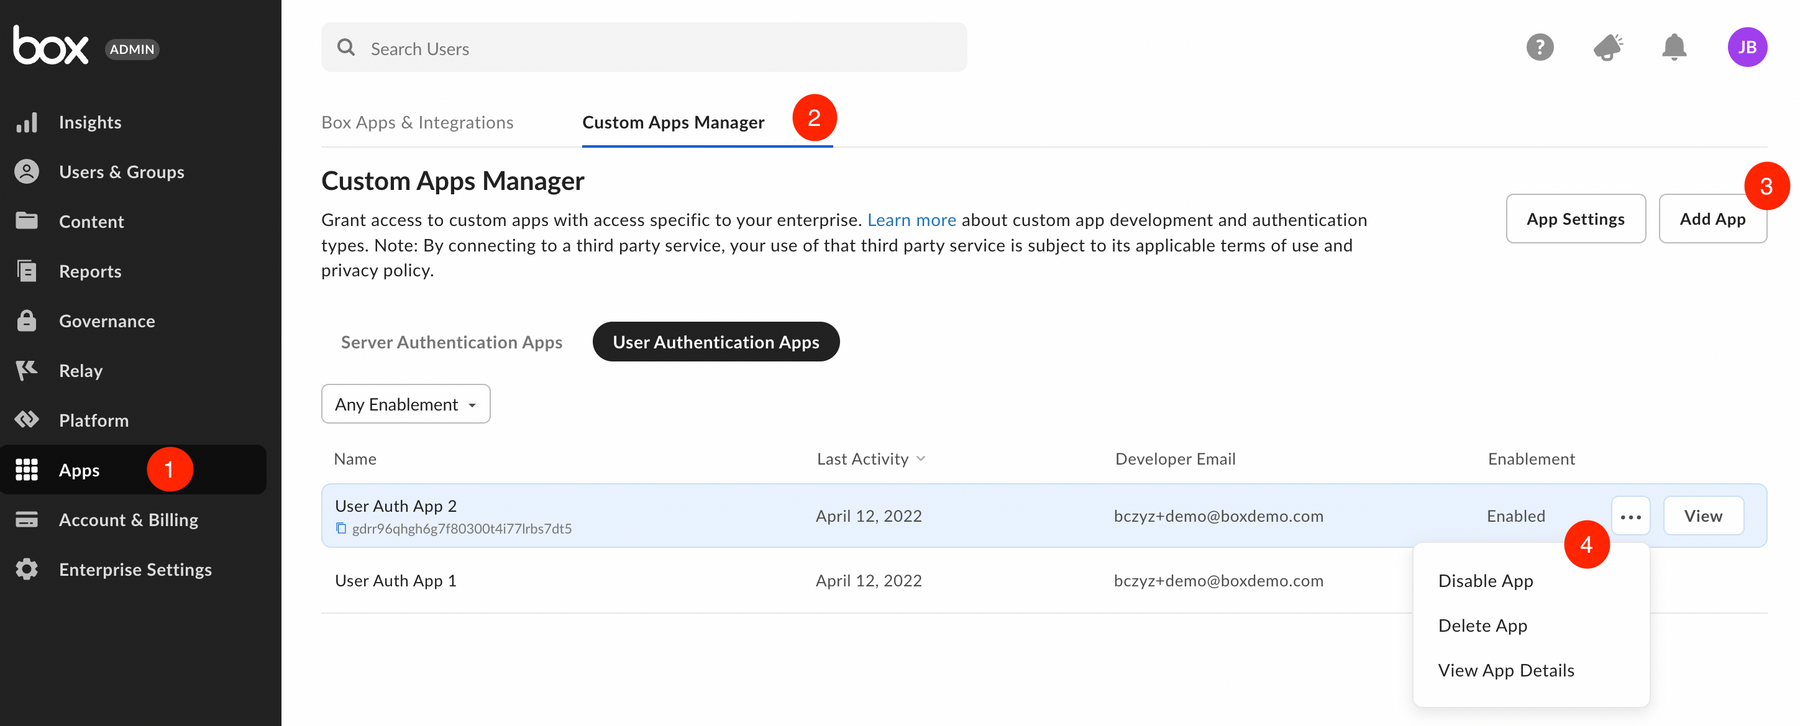
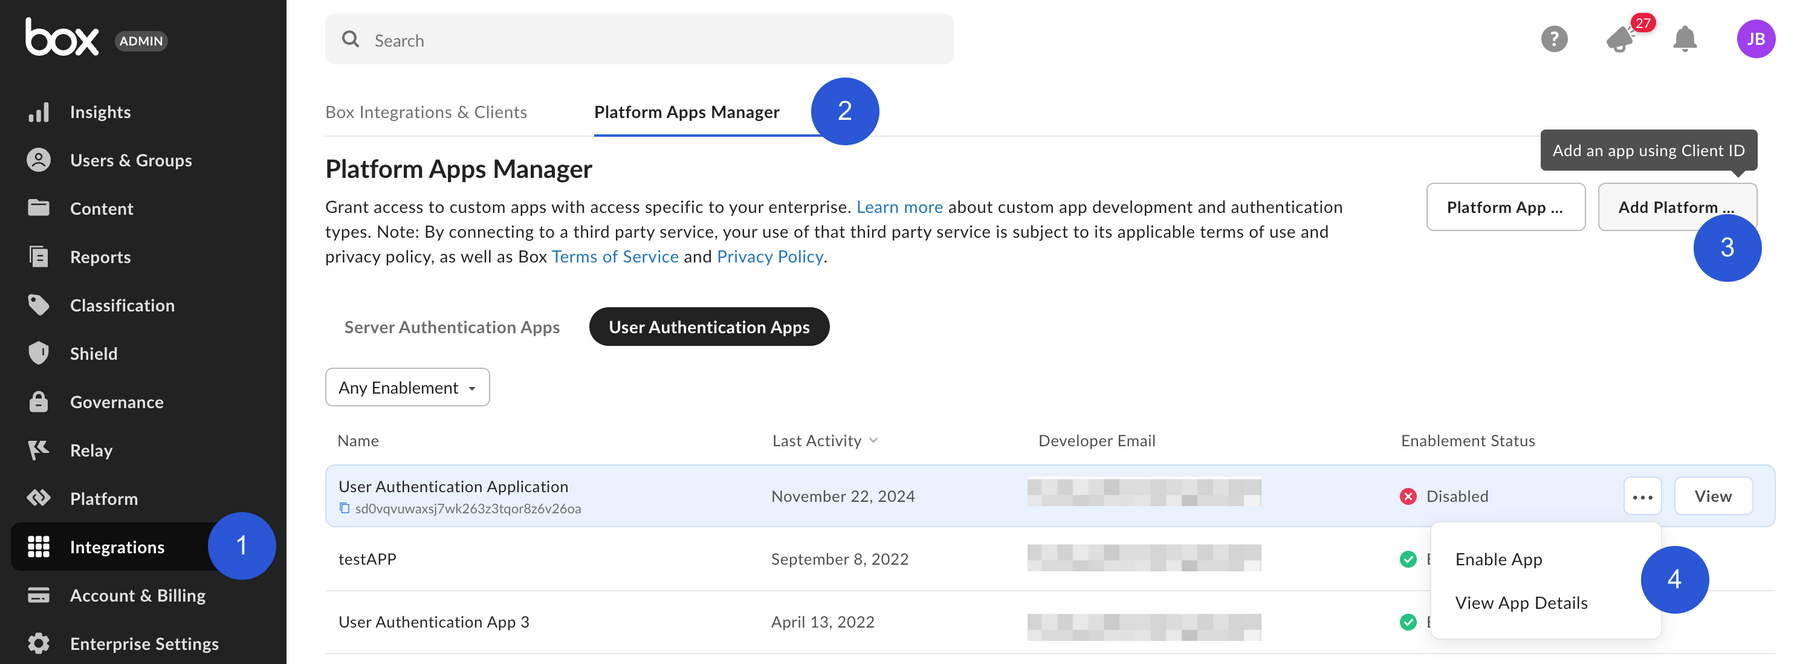
Update en to output generated at 47d70ae

diff --git a/guides/authorization/index.md b/guides/authorization/index.md
@@ -44,17 +44,17 @@ Admin authorization based on enabled enterprise settings.
 Subsequent steps are required if any of the following enterprise settings are
 enabled:
 
-- Disable published Integrations by default
-- Disable unpublished Integrations by default
-- Require manual admin authorization for transactional access apps
+- Disable published third party apps by default
+- Disable unpublished apps by default
+- Require manual Admin authorization for Limited Access Apps
 
 These [settings][setting] can be found by navigating to:
 
-**Admin Console** > **Apps** > **Platform Apps** > click the ⚙ icon
+**Admin Console** > **Integrations** > **Platform Apps Manager** > **Platform Apps Settings** button.
 
 <Message tip>
 
-Published integrations are any applications that can be found in our App Center.
+Published Platform Apps are any applications that can be found under Integrations.
 
 </Message>
 
@@ -65,7 +65,7 @@ scenarios.
 
 <!--alex ignore-->
 
-**Disable Integrations by default**:
+**Disable published third party apps by default**:
 
 | Authentication Method                            | Enabled                                     | Disabled
 | ------------------------------------------------ | ------------------------------------------- | -------------- |
@@ -74,23 +74,23 @@ scenarios.
 |[Server Authentication (client credentials)][cc]  | N/A                                         | N/A            |
 |[App Token Authentication][apptoken]              | N/A                                         | N/A            |
 
-**Disable unpublished integrations by default**:
+**Disable unpublished apps by default**:
 
 | Authentication Method                            | Enabled                                                                             | Disabled
 | ------------------------------------------------ | ----------------------------------------------------------------------------------- | --------------------------------------- |
-|[OAuth 2.0][standauth]                            | Enable in **Apps** > **Platform Apps Manager** > **User Authentication Apps** > **Platform App** | Ready for use                           |
-|[Server Authentication (with JWT)][jwt]           | Authorize and enable in **Integrations** > **Platform Apps Manager** > **Server Authentication Apps** > **Add Platform App** | Authorize in **Integrations** > **Platform Apps Manager** > **Server Authentication Apps** > **Add Platform App** |
-|[Server Authentication (client credentials)][cc]  | Authorize and enable in **Apps** > **Platform Apps Manager** > **Server Authentication Apps** | Authorize in **Integrations** > **Platform Apps Manager** > **Server Authentication Apps** > **Add Platform App** |
-|[App Token Authentication][apptoken]              | Authorize and enable in **Integrations** > **Platform Apps Manager** > **Server Authentication Apps** > **Server Authentication Apps** > **Add Platform App** | Ready for use                           |
+|[OAuth 2.0][standauth]                            | Enable in **Integrations** > **Platform Apps Manager** > **User Authentication Apps** > Select Platform App > Use **More** menu to enable the app. | Ready for use                           |
+|[Server Authentication (with JWT)][jwt]           | Authorize and enable in **Integrations** > **Platform Apps Manager** > **Server Authentication Apps** Select Platform App > Use **More** menu to authorize the app. | Authorize in **Integrations** > **Platform Apps Manager** > **Server Authentication Apps** > Select Platform App > Use **More** menu to authorize the app. |
+|[Server Authentication (client credentials)][cc]  | Authorize and enable in **Apps** > **Platform Apps Manager** > **Server Authentication Apps** > Select Platform App > Use **More** menu to authorize the app.| Authorize in **Integrations** > **Platform Apps Manager** > **Server Authentication Apps** > Select Platform App > Use **More** menu to enable the app. |
+|[App Token Authentication][apptoken]              | Authorize and enable in **Integrations** > **Platform Apps Manager** > **Server Authentication Apps** > **Server Authentication Apps** > Select Platform App > Use **More** menu to enable the app. | Ready for use                           |
 
-**Require manual admin authorization for transactional access apps**:
+**Require manual Admin authorization for Limited Access Apps**:
 
 | Authentication Method                            | Enabled                                                                  | Disabled                                             |
 | ------------------------------------------------ | ------------------------------------------------------------------------ | ---------------------------------------------------- |
 |[OAuth 2.0][standauth]                            | N/A                                                                      | N/A                                                  |
 |[Server Authentication (with JWT)][jwt]           | N/A                                                                      | N/A                                                  |
 |[Server Authentication (client credentials)][cc]  | N/A                                                                      | N/A                                                  |
-|[App Token Authentication][apptoken]              | Authorize in **Integrations** > **Platform Apps Manager** > **Server Authentication Apps** | Automatically authorized and enabled upon creation   |
+|[App Token Authentication][apptoken]              | Authorize in **Integrations** > **Platform Apps Manager** > **Server Authentication Apps** Select Platform App > Use **More** menu to authorize the app. | Automatically authorized and enabled upon creation   |
 
 <!--alex enable-->
 

diff --git a/guides/authorization/limited-access-approval.md b/guides/authorization/limited-access-approval.md
@@ -28,7 +28,7 @@ Limited Access Integrations are automatically authorized for use in an enterpris
 creation.
 
 However, if the enterprise setting to
-**Require manual admin authorization for transactional access apps** is enabled,
+**Require manual Admin authorization for Limited Access Apps** is enabled,
 an Admin must preform additional steps.
 
 ## Approval Notifications
@@ -56,9 +56,12 @@ application.
 
 ### As a developer
 
-As the developer, navigate to the **Configuration** tab for your application
-in the [Developer Console][devconsole]. Scroll down to the OAuth 2.0 Credentials
-section and copy the Client ID value to provide to a Box Admin.
+1. Navigate to the **Configuration** tab for your application in the [Developer Console][devconsole].
+2. Scroll down to the OAuth 2.0 Credentials section and copy the **Client ID** value to provide to a Box Admin.
+
+Alternatively, hover over the application in the
+[My Platform Apps][apps] view to look up the **ClientID** and then
+copy it using the `copy` button.
 
 <Message>
 
@@ -66,16 +69,14 @@ section and copy the Client ID value to provide to a Box Admin.
 
 If you don't know your enterprise Admin, go to your Box [Account
 Settings][settings] page and scroll to the bottom. If an admin contact is set
-you should see their contact  information under "Admin Contact".
+you should see their contact  information under **Admin Contact**.
 
 </Message>
 
 ### As an Admin
 
 As a Box Admin, navigate to the [Admin Console][adminconsole] and
-select the **Integrations** tab (1) from the left navigation panel. Then, click the
-**Platform Apps** tab (2) at the top of your screen. On this screen, you will
-see a **+** button in the top right corner to add a new app authorization.
+select the **Integrations** > **Platform Apps Manager** > **Add Platform App**
 
 <ImageFrame border center>
 
@@ -120,3 +121,5 @@ of the application name to **Reauthorize App**.
 
 [app-auth]: https://support.box.com/hc/en-us/articles/360043697014-Authorizing-Apps-in-the-Box-App-Approval-Process
 <!-- i18n-disable localize-links -->
+
+[apps]: g://applications

diff --git a/guides/mobile/ios/quick-start/configure-box-app.md b/guides/mobile/ios/quick-start/configure-box-app.md
@@ -55,14 +55,14 @@ console.
 To create a new Box application that may be used to generate a developer
 token, use the following steps.
 
-1. Go to the [Developer Console][devconsole]
-2. Select **Create Platform App**
-3. Select **Platform App** as the type of application to create, and click **Next**
-4. Select **OAuth 2.0 with JWT** as the authentication method, and click **Next**
-5. Give your Box app a unique name and click **Create Platform App**
+1. Go to the [Developer Console][devconsole].
+2. Select **Create Platform App**.
+3. Select **Custom App** as the type of application to create, and click **Next**.
+4. Select **OAuth 2.0 with JWT** as the authentication method, and click **Next**.
+5. Give your Box app a unique name and click **Create Platform App**.
 6. Go to the app's configuration by clicking **View Your Platform App**.
 7. Optionally, scroll to the **Required Access Scopes** section of the same screen and select any additional permissions you want to enable for this application.
-8. At the top of the page click the button to **Save Changes**
+8. At the top of the page click the button to **Save Changes**.
 
 </Choice>
 

diff --git a/guides/authorization/custom-app-approval.md b/guides/authorization/custom-app-approval.md
@@ -93,7 +93,7 @@ copy it using the `copy` button.
 
 If you don't know your enterprise Admin, go to your Box [Account
 Settings][settings] page and scroll to the bottom. If an admin contact is set
-you should see their contact information under "Admin Contact".
+you should see their contact information under **Admin Contact**.
 
 </Message>
 
@@ -108,7 +108,7 @@ you should see their contact information under "Admin Contact".
 
 <ImageFrame border center>
 
-![Server tab](images/jwt_app_approval_flow.png)
+![Server tab](images/oauth_app_approval_flow.png)
 
 </ImageFrame>
 

diff --git a/pages/platform/box-platform-101.md b/pages/platform/box-platform-101.md
@@ -116,7 +116,7 @@ web app, they should be able to access it using the API.
 ### Application Type
 
 There are three main types of applications that can be created in the developer
-console. They include platform app, limited access app, and custom skills. You
+console. They include Custom App, Limited Access App, and Box Custom Skills. You
 can also create third party and web app integrations.
 
 <ImageFrame center>

diff --git a/guides/collaborations/connect-slack-to-group-collabs/configure-slack.md b/guides/collaborations/connect-slack-to-group-collabs/configure-slack.md
@@ -29,7 +29,7 @@ This section will take you through the following steps.
 
 ## Create a minimal Slack app
 
-Go to the **[Slack apps page][slack-apps]** and click **Create Platform App**. Add
+Go to the **[Slack apps page][slack-apps]** and click **Create an App**. Add
 an **App Name**, select your **Development Slack Workspace** from the dropdown
 list where the bot will be deployed to, then click **Create App**.
 
